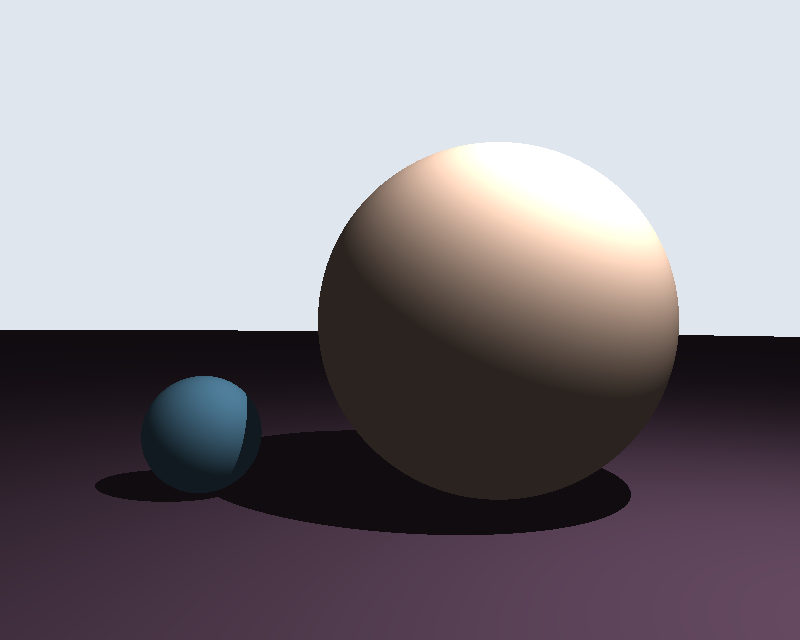
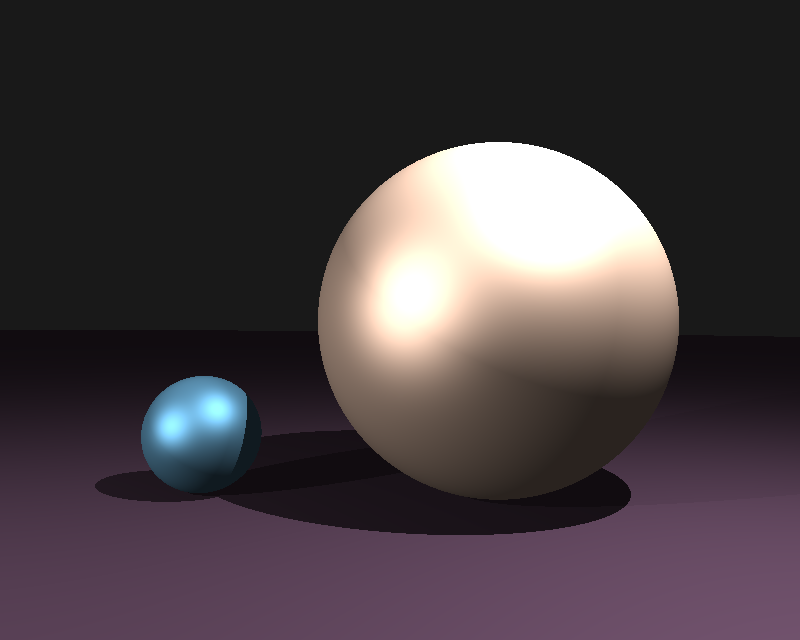
Blinn-Phong illumination model

diff --git a/Raytracer/main.cpp b/Raytracer/main.cpp
@@ -15,6 +15,7 @@ int main(int argc, char* argv []) {
 	camera.Rotate(vec3(0, 0, 0.5f));
 
 	Scene scene;
+	scene.bgColor = vec3(0.1f);
 	scene.ambientIntense = 0.2f;
 	// Test objs
 	scene.objs.push_back(Sphere(vec3(0.8, 1.5, 0), 1.5, vec3(210 / 255.f, 178 / 255.f, 158 / 255.f)));
@@ -22,7 +23,7 @@ int main(int argc, char* argv []) {
 	scene.objs.push_back(Sphere(vec3(0, -10000, 0), 10000, vec3(85 / 255.f, 62 / 255.f, 82 / 255.f)));
 	// Test lights
 	scene.lights.push_back(Light(vec3(3, 7, 3), vec3(1), 50));
-	//scene.lights.push_back(Light(vec3(-3, 7, 3), vec3(1), 50));
+	scene.lights.push_back(Light(vec3(-8, 3, 6), vec3(1), 40));
 
 	Renderer renderer(scene, camera);
 	renderer.Render();

diff --git a/Raytracer/Shape.h b/Raytracer/Shape.h
@@ -14,8 +14,8 @@ class Sphere
 public:
 	Sphere(vec3 center = vec3(0, 0, 0), float radius = 1
 		, vec3 diffuseMatColor = vec3((float) 0xcc / 255, (float) 0x70 / 255, (float) 0xa3 / 255)
-		, float specular = 0.5)
-		:center(center), radius(radius), diffuseMatColor(diffuseMatColor), specular(specular)
+		, float shininess = 16)
+		:center(center), radius(radius), diffuseMatColor(diffuseMatColor), specularMatColor(diffuseMatColor), shininess(shininess)
 	{}
 	bool Intersect(Ray& ray, double& outT, IntersectInfo& info);
 
@@ -23,7 +23,7 @@ public:
 	float radius;
 	vec3 diffuseMatColor;
 	vec3 specularMatColor;
-	float specular;
+	float shininess;
 };
 
 #endif

diff --git a/Raytracer/Renderer.cpp b/Raytracer/Renderer.cpp
@@ -51,6 +51,14 @@ vec3 Renderer::EvaluateLight(Ray ray, IntersectInfo info)
 			float dotProd = max(0.f, dot(info.normal, rayToLight.dir));
 			vec3 diffuseTerm = info.diffuseMatColor * scene.lights[f1].IntensAtPoint(info.point)* dotProd;
 			totalColor += diffuseTerm;
+
+			// Specular
+			vec3 pointToView = normalize(cam.pos - info.point);
+			vec3 halfVec = normalize(pointToView + rayToLight.dir);
+
+			float specAngle = max(dot(halfVec, info.normal), 0.f);
+			float specular = pow(specAngle, info.shininess);
+			totalColor += info.specularMatColor * specular;
 		}
 	}
 	vec3 ambientTerm = scene.ambientColor * scene.ambientIntense * info.diffuseMatColor;

diff --git a/Raytracer/Shape.cpp b/Raytracer/Shape.cpp
@@ -30,6 +30,8 @@ bool Sphere::Intersect(Ray& ray, double& outT, IntersectInfo& info)
 	info.diffuseMatColor = diffuseMatColor;
 	info.normal = normalize(info.point - center);
 	info.center = center;
+	info.specularMatColor = specularMatColor;
+	info.shininess = shininess;
 
 	return true;
 }

diff --git a/Raytracer/IntersectInfo.h b/Raytracer/IntersectInfo.h
@@ -12,6 +12,9 @@ public:
 	vec3 point;
 	vec3 normal;
 	vec3 diffuseMatColor;
+	vec3 specularMatColor;
+	float diffuseFactor;
+	float shininess;
 	vec3 center;
 };
 

diff --git a/README.md b/README.md
@@ -4,6 +4,8 @@ A simple raytracer built with love :heart:
 ### History
 From recent to old
 
+![](https://drive.google.com/uc?export=view&id=0B8ZrSC4wBsYaaTFpelZpVzBZbmc)
+
 ![](https://drive.google.com/uc?export=view&id=0B8ZrSC4wBsYaUHJYeHdzYy1reE0)
 
 ![](https://drive.google.com/uc?export=view&id=0B8ZrSC4wBsYaS0MzU1lQSFgtSVU)
